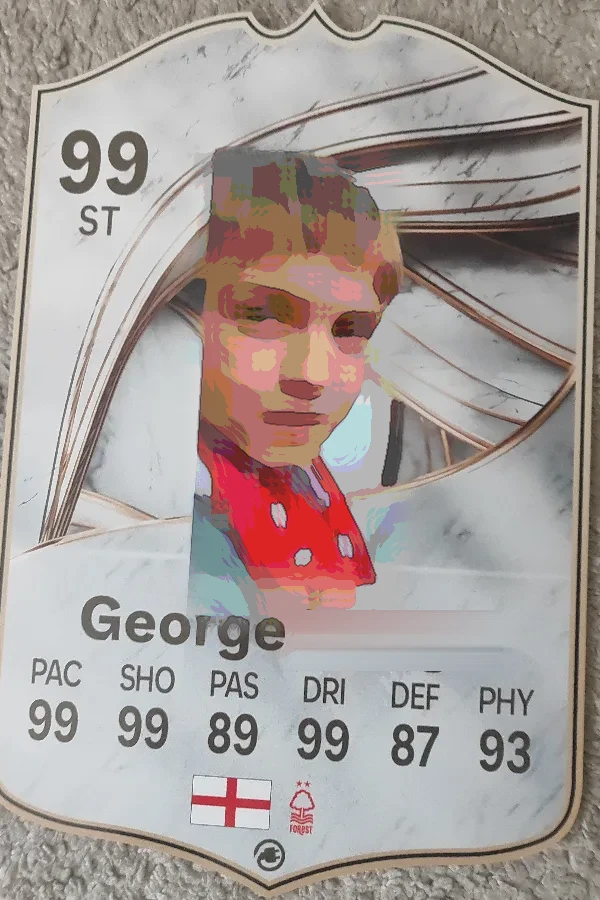
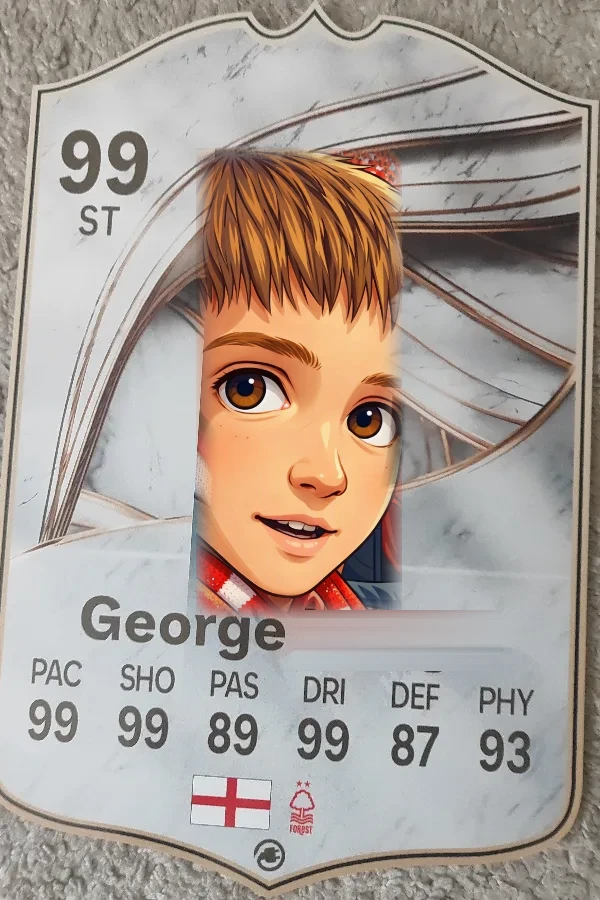
Use the AI illustration for both pictures of George; remove stray test screenshots (#104)
Claude-Session: https://claude.ai/code/session_017eYJk2dewQsckke2BZCoDP

Changed region(s): [[0.3, 0.1556, 0.69, 0.7156]]

diff --git a/index.html b/index.html
@@ -79,7 +79,8 @@
             <div data-gzr="level" style="margin-top:16px"></div>
           </div>
           <figure class="hero-photo reveal">
-            <img src="assets/images/gallery/george-matchday.webp" width="520" height="1093" alt="George at a football match, wearing a red and white scarf" loading="eager">
+            <img src="assets/images/gallery/george-matchday.webp" width="640" height="915" alt="A drawing of George at a Forest match, wearing a red and white scarf" loading="eager">
+            <figcaption>Me at the match, drawn with AI</figcaption>
           </figure>
         </div>
       </div>
